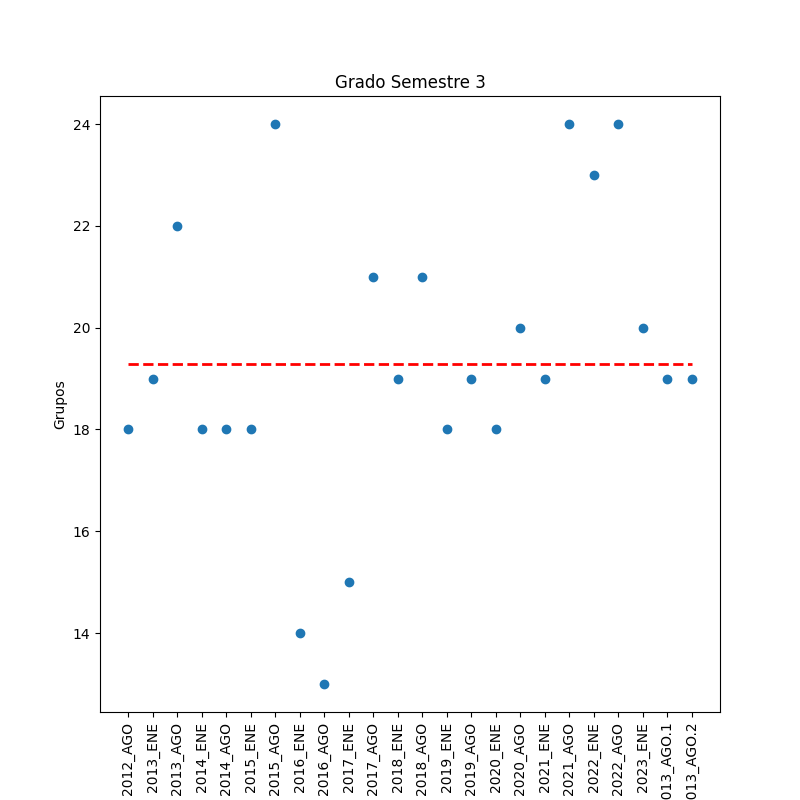
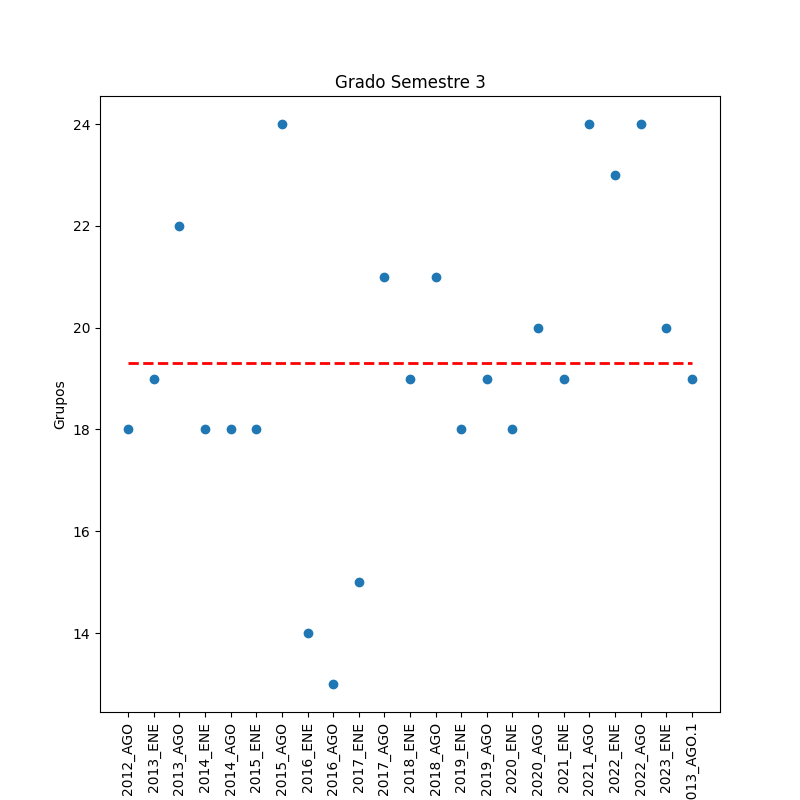
Pendiente funcion para eliminar ultima columna

diff --git a/apiRest/functions.py b/apiRest/functions.py
@@ -4,6 +4,7 @@ import json
 #Para recibir archivo csv y ver su contenido
 import csv
 import os
+from tempfile import NamedTemporaryFile
 
 #Funcion para agregar una columna al dataframe
 def addData(newPred):
@@ -40,3 +41,28 @@ def addData(newPred):
         print("An error occurred to update row:", e)    
 
 ##Pendiente de agrear parametro para que el usuario indique a que archivo desea agregar los nuevos datos
+        
+
+def removeData():    
+    try:        
+        # with open('./recibidos/tableClaude.csv',"r") as fin:
+        #     with open('./recibidos/tableClaude2.csv',"w") as fout:
+        #         writer=csv.writer(fout)
+        #         for row in csv.reader(fin):
+        #             writer.writerow(row[:-1])       
+        with open('./recibidos/tableClaude.csv', 'r') as fin:
+            rows = list(csv.reader(fin))
+
+        for row in rows:
+            row.pop(-1)   
+
+        with NamedTemporaryFile(mode='w', delete=False) as tf:
+            writer = csv.writer(tf)
+            for row in rows:
+                writer.writerow(row)            
+    
+        os.remove('./recibidos/tableClaude.csv')
+        os.rename(tf.name, './recibidos/tableClaude.csv')
+
+    except Exception as e:
+        print("Error al intentar remover columna:", e)    

diff --git a/apiRest/index.py b/apiRest/index.py
@@ -2,7 +2,7 @@ from flask import Flask, request,Response, send_from_directory
 #Importar funciones a usar
 from model import trainModel,holaMundo,uploadFile,getSetData;
 from stats import generatEveryStats, export_plots_to_excel
-from functions import addData
+from functions import addData, removeData
 from flask import jsonify
 import json
 #CORS
@@ -103,6 +103,21 @@ def addDate():
         }) # jsonify garantiza JSON válido
     except Exception as e:
         return "error : ",e
+    
+
+@app.route("/remove")
+def removeColumn():
+    try:
+        removeData()
+        
+        return jsonify({
+            "code":200,
+            "messagge" : "Columna Removida"
+        }) # jsonify garantiza JSON válido
+    except Exception as e:
+        return "error : ",e
+
+
     
  #; Ruta para llamar a la funcion que entrena el modelo randomForestRegression, es
  # necesario usar capturador de errores en esta parte, justo en el endpoint   
